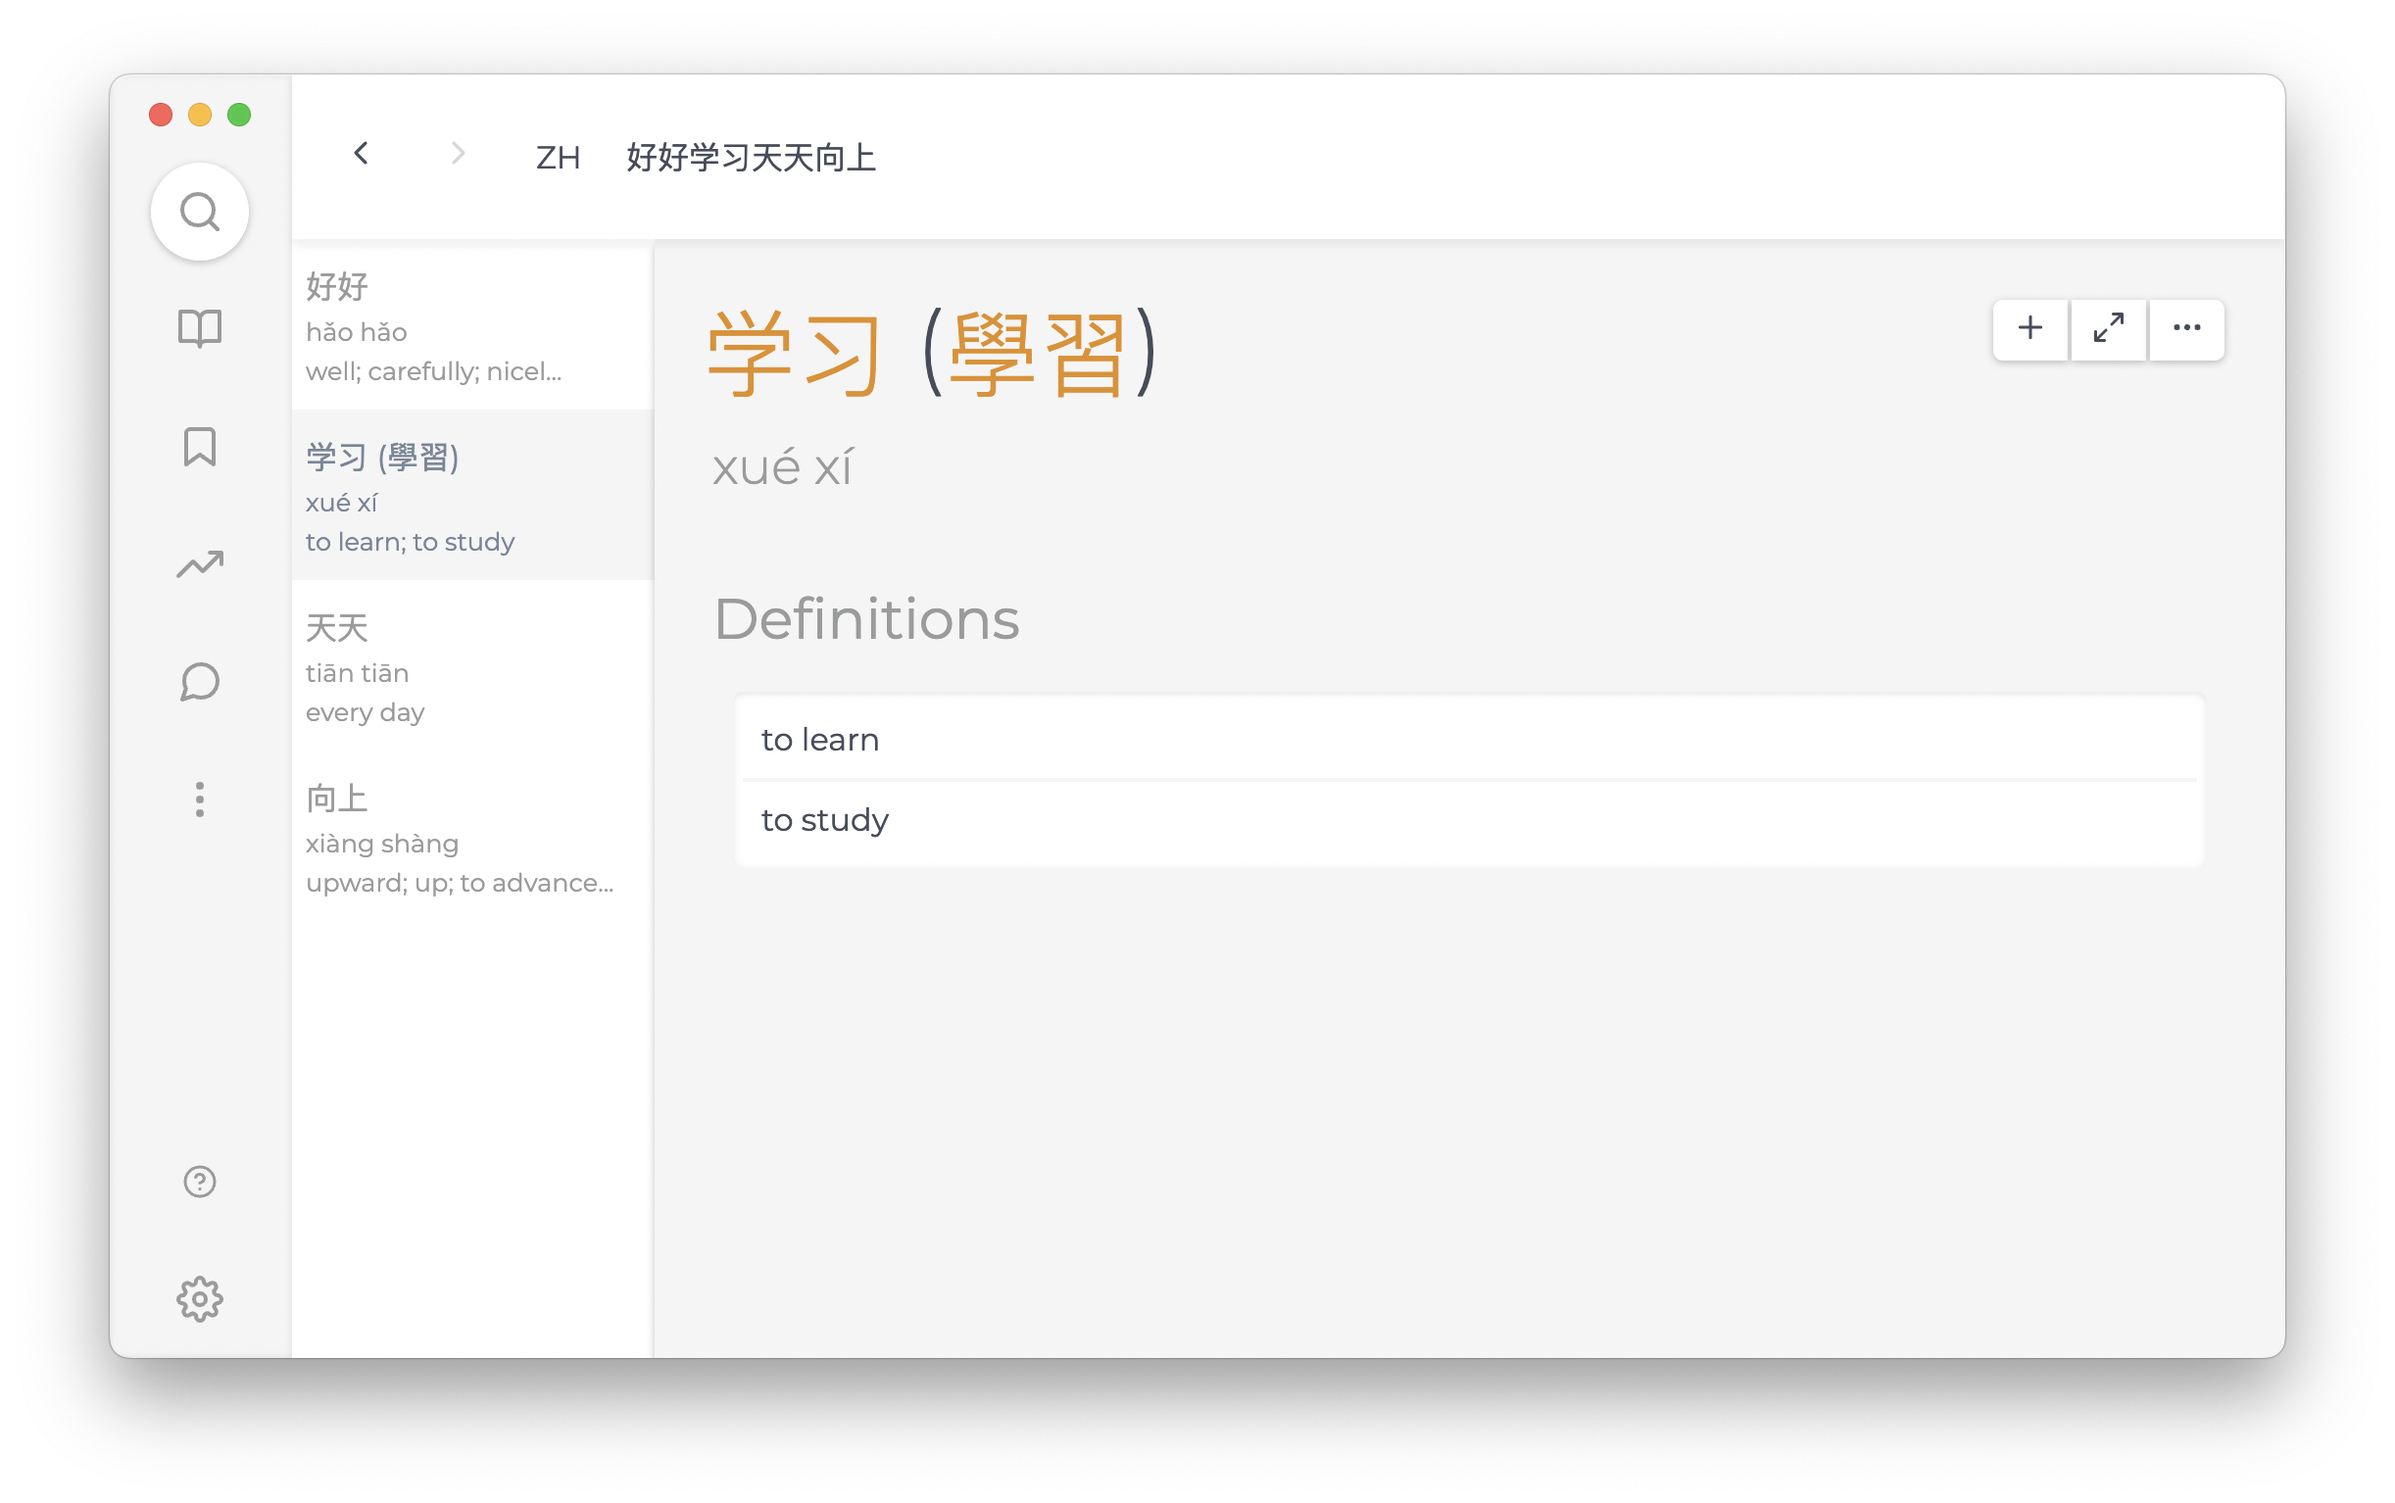
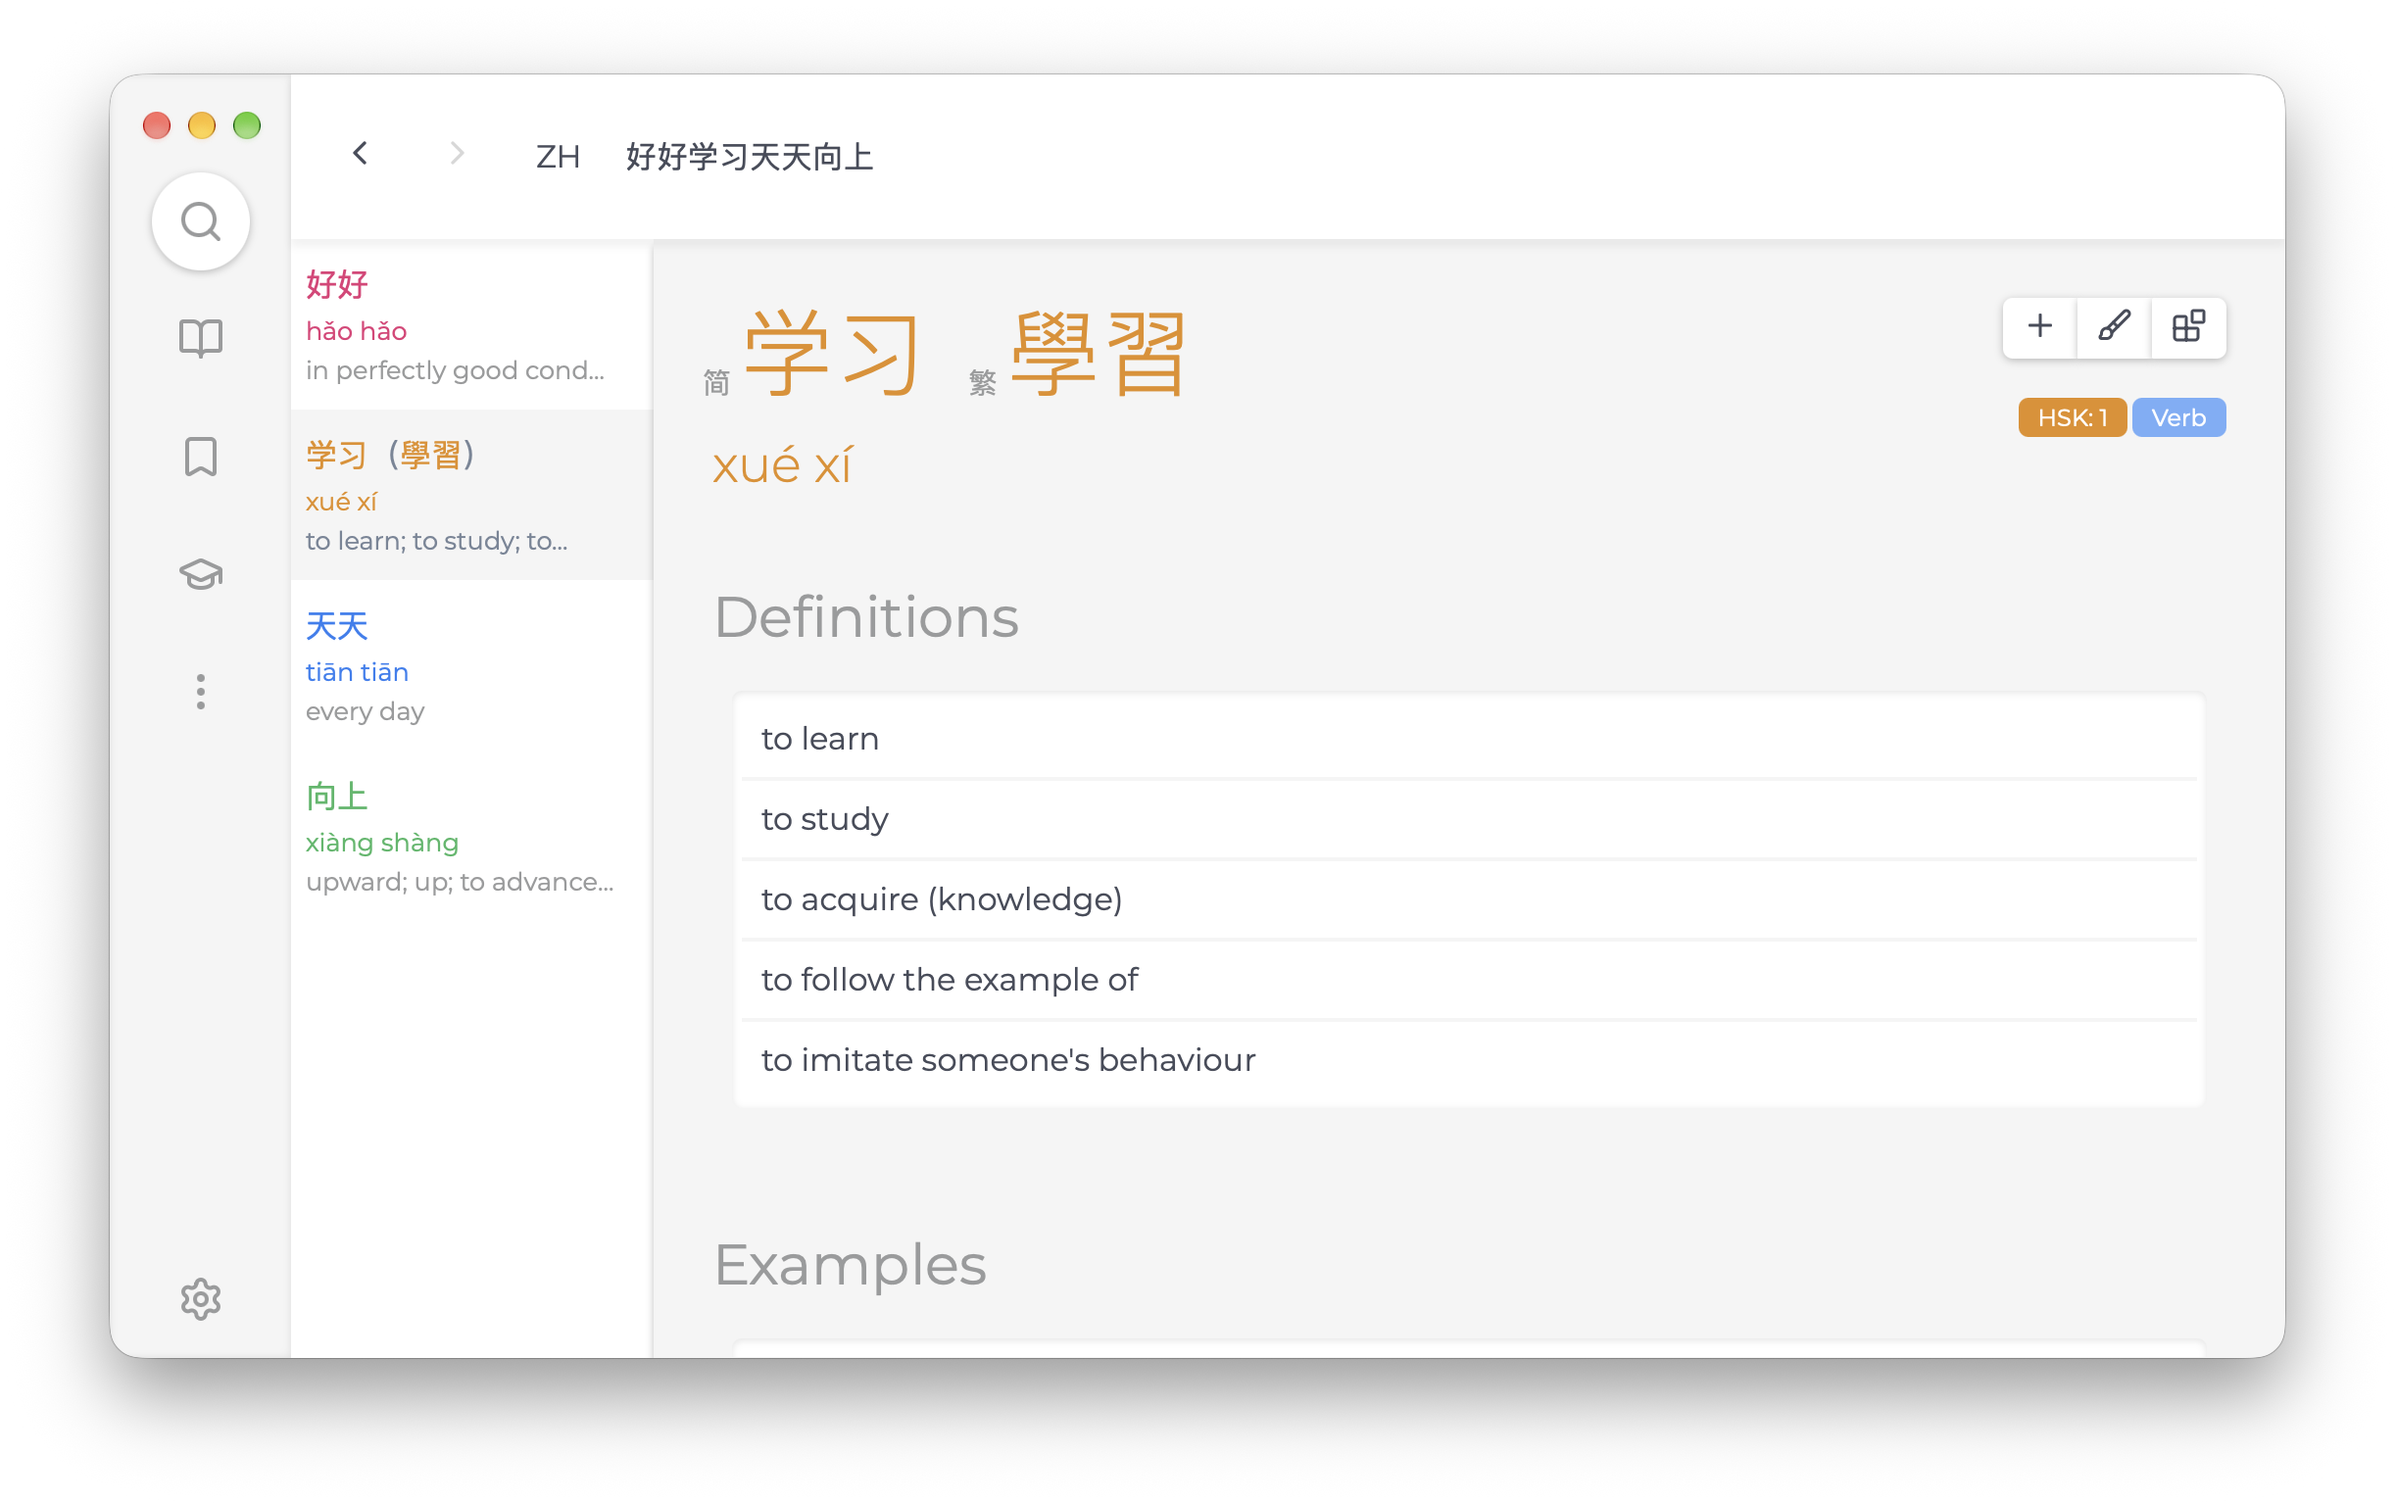
Updated README and CHANGELOG

diff --git a/CHANGELOG.md b/CHANGELOG.md
@@ -1,6 +1,21 @@
 # Change Log
 All notable changes to this project will be documented in this file. This project adheres to [Semantic Versioning](http://semver.org/).
 
+## [2.7.0] - 2026-10-30
+### Added
+- Added interactive character breakdowns to dictionary entries, including formations, components, radicals, stroke counts, and related lookups; thanks to an anonymous Syng user for suggesting this feature
+- Added optional pinyin display in Reader, on flashcard fronts, and beneath character animations, with tone coloring; thanks to Daniel for suggesting these additional options
+
+### Changed
+- Improved Reader wrapping, pagination, table layout, and word selection when pinyin or imported annotations are shown
+- Improved dictionary entry layouts so actions, metadata, and long pronunciation text remain readable in narrow windows and with larger text
+
+### Fixed
+- Fixed incorrect alternative pronunciations appearing in some dictionary entries
+- Fixed unexpected navigation scrollbars and misplaced tooltips
+- Fixed quiz feedback rendering artifacts on Android
+- Fixed the background behind Android status and navigation safe areas in dark mode
+
 ## [2.6.0] - 2026-10-23
 ### Added
 - Added interactive What's New notes after selected updates

diff --git a/README.md b/README.md
@@ -9,12 +9,15 @@
 ##### Don't just learn Chinese, master it.
 
 ## __About__
-Syng is a free, cross-platform, open-source, Chinese-To-English and English-To-Chinese dictionary. Syng is your study assistant to help you learn Chinese no matter where you are in your journey.
+Syng is a cross-platform, open-source, Chinese-To-English and English-To-Chinese dictionary. Syng is your study assistant to help you learn Chinese no matter where you are in your journey.
 
 ## __What's new?__
 Check out the [release page](https://github.com/sotch-pr35mac/syng/releases) for the latest information on new features and fixes.
 
-Syng v2 is now officially out of beta! Syng v2 is a ground-up rewrite focusing on speed and user experience. Syng v2 now has feature parity with v1.
+Syng 2.7.0 highlights:
+
+- Explore character formations, components, radicals, and related characters with Character Breakdown
+- Choose where pinyin appears in Reader, on flashcards, and beneath character animations
 
 ## __Screenshots__
 More screenshots available on [the Syng website](https://www.getsyng.com).
